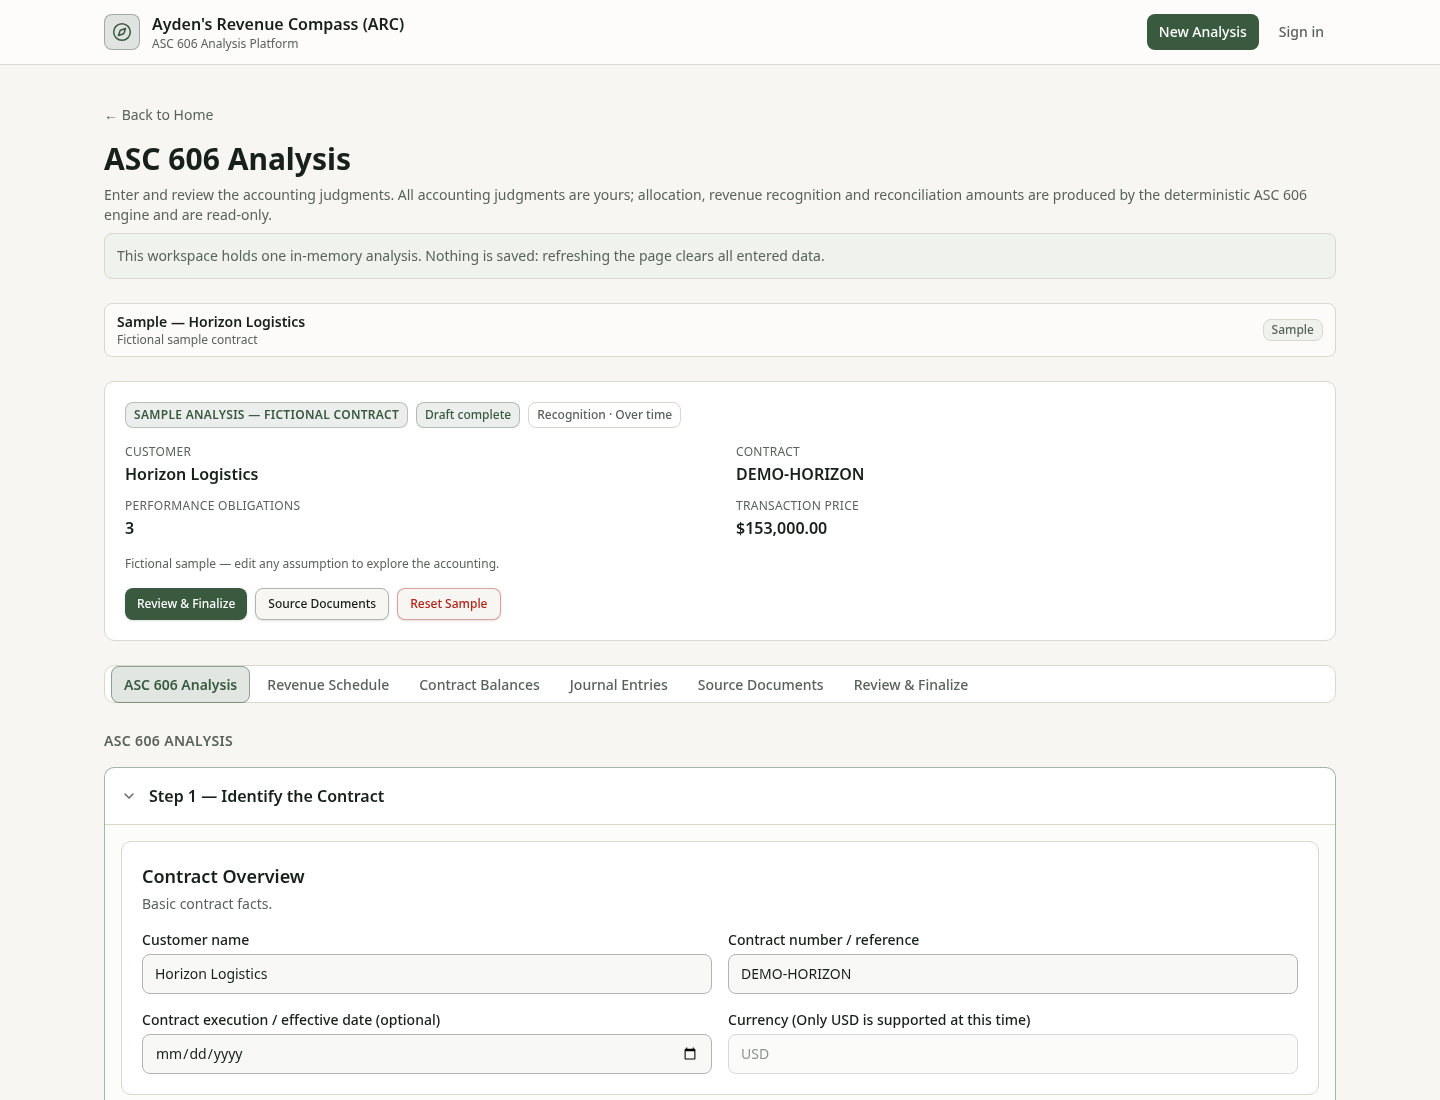
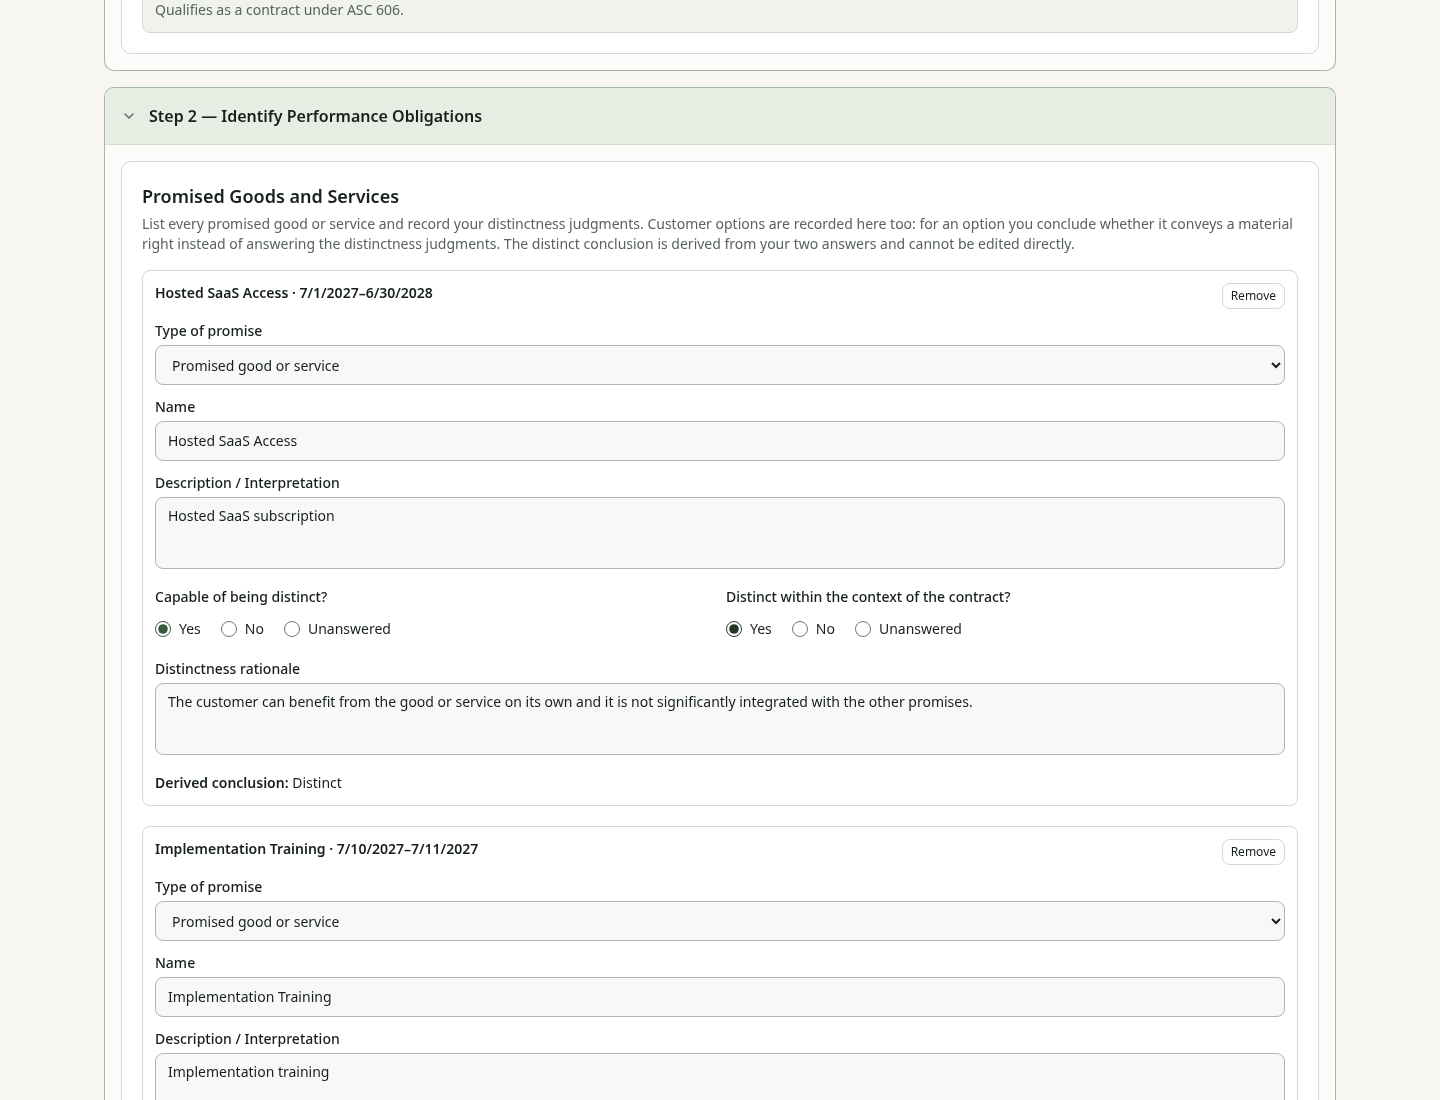
Changes

diff --git a/README.md b/README.md
@@ -42,7 +42,7 @@ The AI boundary expressly excludes revenue schedules, allocation results, journa
 
 1. From Home, choose **Try the Sample** to open the fictional **Horizon Logistics** contract.
 2. Review the five-step analysis and the three performance obligations.
-3. Inspect source-linked AI conclusions and the accountant review controls.
+3. Review the accountant-owned judgments and performance-obligation structure.
 4. Open **Revenue Schedule** to see deterministic allocation and daily-to-monthly recognition results.
 5. Open **Contract Balances** and **Journal Entries** to trace billing, collections, revenue, receivables, contract assets, and contract liabilities.
 6. Finish in **Review & Finalize** to inspect validation, reconciliation, and finalization controls.
@@ -64,7 +64,7 @@ ARC v1 includes curated workflows for:
 - contract modifications and material-right workflows; and
 - validation and reconciliation controls across the analysis.
 
-![ARC deterministic journal entries](docs/assets/arc-deterministic-journal-entries.png)
+![ARC deterministic revenue schedule](docs/assets/arc-deterministic-revenue-schedule.png)
 
 ## Architecture
 

diff --git a/roadmap.md b/roadmap.md
@@ -54,6 +54,7 @@
 - [x] Capture three internally consistent final-state README images from the accepted Horizon/sample experience; no new Terra run (owner selected three captures because sample mode intentionally contains no AI evidence rows)
 - [x] Preserve frozen application source; capture revealed no genuine product defect and no application source changed
 - [x] Refresh only README image references/alt text/captions and intentional screenshot assets, then inspect the rendered README
+- [x] Acceptance correction: replace the workspace image with populated Horizon Step 2 and replace the journal image with the identifier-free deterministic Revenue Schedule; align the demo instructions with Horizon’s accountant-owned sample state
 - [x] Verify dependency, Genomix hash, repository hygiene, package a clean source ZIP, and report the final commit hash
 - [ ] Owner confirms the GitHub app and database jobs are green on the reported final commit; Lovable does not independently certify CI status
 
